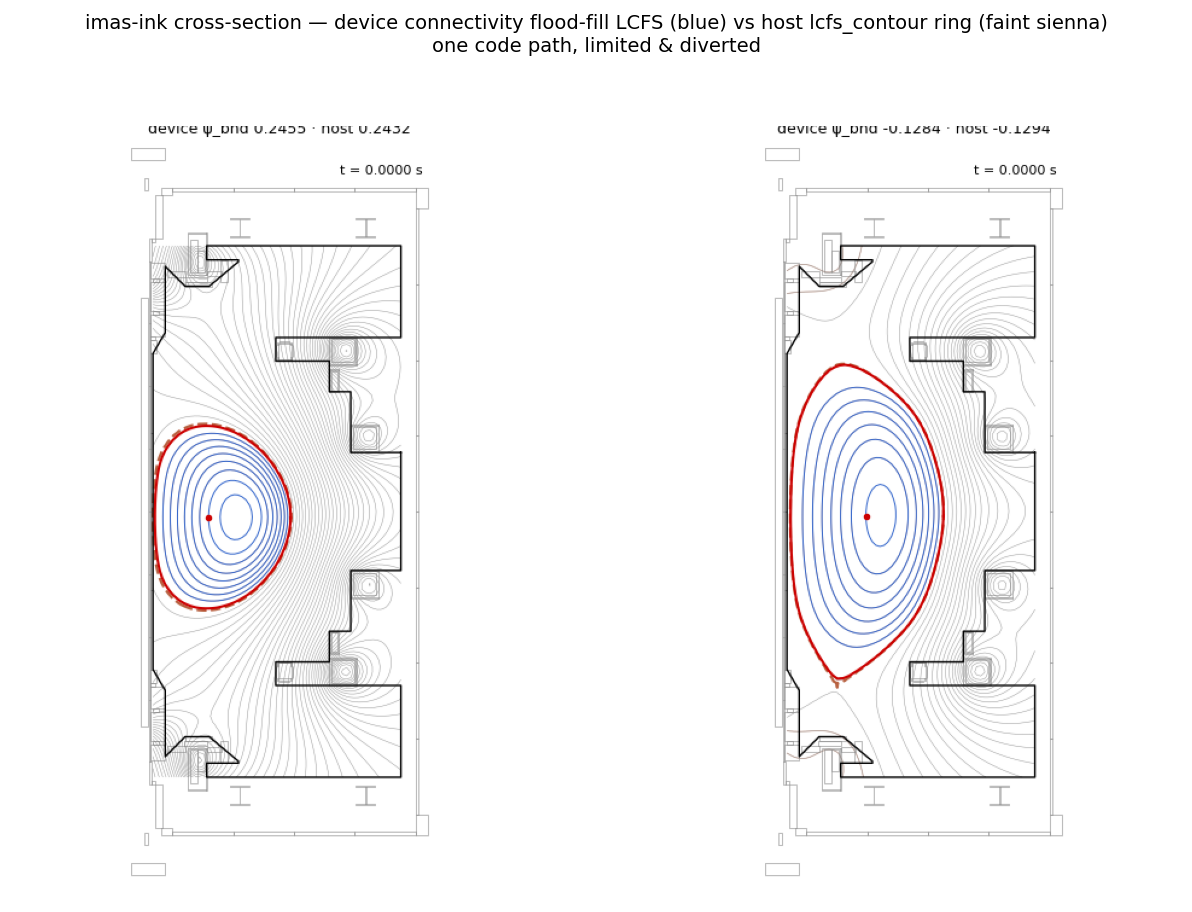
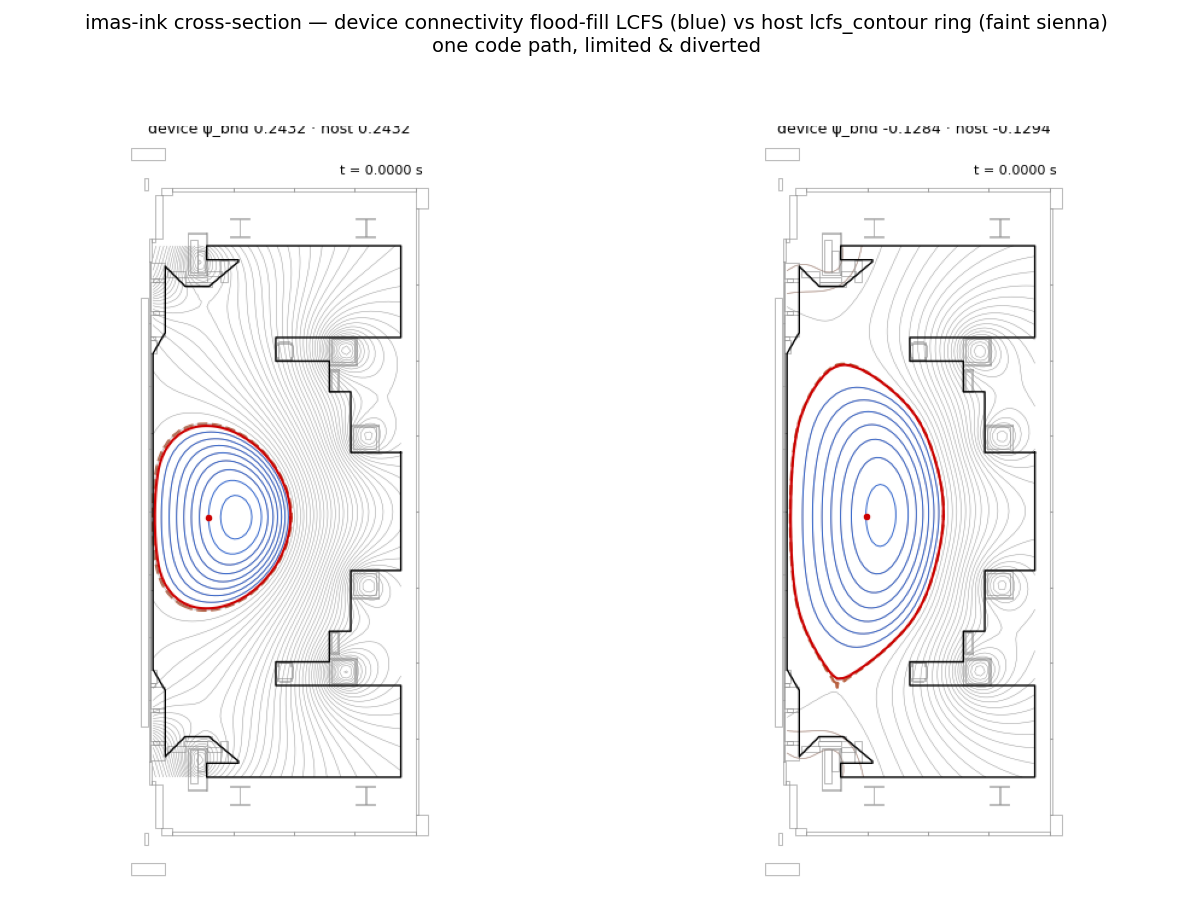
docs(connectivity-topology-reader): §2 final — both classes on y=x, ψ_bnd bias fully removed
Refresh the findings report, per-stage archive, evergreen collapse, and figures
with the final 36-slice gate after the two-step ψ_bnd fix: LCFS radii reproduce
host lcfs_contour to 0.09 cm median (limited 0.06 / diverted 0.46, p90 2.14),
ψ_bnd to 0.02% of span, both limited and diverted straddling y=x (limited signed
median −0.01%, diverted +0.43%). Two-step RCA recorded (single-sided → two-sided
saddle mean → sub-grid wall-min for the limited tangency, classes split by the
region size jump). All gates PASS; f-ctr-01 outcome updated.

Changed region(s): [[0.1242, 0.2763, 0.3414, 0.8596], [0.2794, 0.3377, 0.3414, 0.4912], [0.3104, 0.614, 0.3414, 0.6754]]

diff --git a/docs/connectivity-topology-reader-boundary-findings.html b/docs/connectivity-topology-reader-boundary-findings.html
@@ -8,7 +8,7 @@
   <meta name="plan-slug" content="connectivity-topology-reader-boundary-findings">
   <meta name="plan-title" content="Connectivity Boundary Read — GPU-native reproduction findings">
   <meta name="plan-status" content="reference">
-  <meta name="plan-summary" content="Findings for the GPU-native connectivity boundary read (connectivity-topology-reader §2): a fixed-shape, jit/vmap/grad-safe device reimplementation of the shipped host lcfs_contour (flood-fill from the axis + candidate-level sweep + bisection), replacing host contourpy. On 36 held-out MAST slices (18 diverted / 18 limited) the device LCFS radii reproduce the host to 1.31 cm median (< 3 cm bar; diverted 0.46 cm, limited 1.40 cm) and the scalar psi_bnd to 1.87% of the axis-boundary flux span (p90 3.12%) — T-B1 PASS. A first single-sided escape test biased psi_bnd ~1 cell toward the axis (boundary too small); reading psi_bnd at the mean of an inner and an outer escape test removes the systematic offset and lands the diverted boundary on the X-point saddle (psi_N=1). On-device batch is one jax.vmap (byte-parity, 46 ms/slice CPU), imports no contourpy/ndimage/argwhere — T-B2 PASS. On a synthetic limited-to-diverted sweep the connectivity psi_bnd is continuous (0.5% max step of span) where the classify-first boundary steps 9.2% at the X-point appearance — T-B3 PASS.">
+  <meta name="plan-summary" content="Findings for the GPU-native connectivity boundary read (connectivity-topology-reader §2): a fixed-shape, jit/vmap/grad-safe device reimplementation of the shipped host lcfs_contour (flood-fill from the axis + candidate-level sweep + bisection), replacing host contourpy. On 36 held-out MAST slices (18 diverted / 18 limited) the device LCFS radii reproduce the host to 0.09 cm median (< 3 cm bar; limited 0.06 cm, diverted 0.46 cm, p90 max 2.14 cm) and the scalar psi_bnd to 0.02% of the axis-boundary flux span (p90 1.77%), both classes on the y=x line — T-B1 PASS. The binding is read at the mean of an inner and an outer escape test (unbiased for the diverted X-point saddle, psi_N=1); a limited plasma's wall tangency is refined sub-grid as the minimum interpolated psi_N over the wall boundary points (limited vs diverted told apart by the region size jump across the binding). On-device batch is one jax.vmap (byte-parity, 46 ms/slice CPU), imports no contourpy/ndimage/argwhere — T-B2 PASS. On a synthetic limited-to-diverted sweep the connectivity psi_bnd is continuous (0.5% max step of span) where the classify-first boundary steps 9.2% at the X-point appearance — T-B3 PASS.">
   <meta name="plan-owner" content="Simon McIntosh">
   <title>Connectivity Boundary Read — GPU-native reproduction findings | imas-ambix</title>
   <link rel="stylesheet" href="/_shared/foundation.css">
@@ -55,14 +55,18 @@ the grid — no contour extraction, no host round-trip:</p>
   set is flood-filled from the axis cell by iterated 4-neighbour dilation (the
   shipped <code>flood_fill_core</code> device kernel from the contour-free FSA) —
   the axis-connected component, never a disconnected pocket.</li>
-  <li><strong>The binding level = the connectivity change, read two-sided.</strong>
-  A level is <em>valid</em> while the axis region stays clear of the wall; it turns
-  invalid when the region first reaches it — a surface going tangent to the wall
-  (LIMITED) or opening through an X-point so the scrape-off connects to the wall
-  (DIVERTED). Each transition is the largest valid level (monotone → coarse sweep +
-  bisection). ψ_bnd is read at the <strong>mean of two escape tests</strong> that
-  bracket the binding from both sides (see §3, RCA) — unbiased, and for a diverted
-  plasma it lands on the X-point saddle (ψ_N = 1).</li>
+  <li><strong>The binding level, split by connectivity signature.</strong>
+  A level is <em>valid</em> while the axis region stays clear of the wall; each
+  escape transition is the largest valid level (monotone → coarse sweep +
+  bisection). ψ_bnd is read at the <strong>mean of an inner and an outer escape
+  test</strong> — unbiased for an interior SADDLE, so a DIVERTED separatrix lands
+  on the X-point (ψ_N = 1). A LIMITED wall tangency is refined <strong>sub-grid</strong>:
+  the minimum interpolated ψ_N over the wall boundary points adjacent to the axis
+  region. Limited and diverted are told apart by the region <strong>size jump</strong>
+  across the binding — a saddle opening merges the region with the SOL/private flux
+  and jumps its size, a tangency grows smoothly — so the sub-grid wall read is
+  applied only to limited plasmas (on a diverted plasma the nearest wall sits
+  outside the separatrix and a min-over-wall would overshoot). See §3a.</li>
   <li><strong>LCFS radii.</strong> Read a hair inside the separatrix by an outward
   ray-march at the evaluator's 8 poloidal angles — a differentiable interpolated
   crossing (the same fixed parameterisation the host uses). A ray at exactly ψ_bnd
@@ -84,10 +88,11 @@ axis, and wall mask.</p>
   <table>
     <thead><tr><th>Metric</th><th>Result</th><th>Bar</th></tr></thead>
     <tbody>
-      <tr><td>LCFS-radius agreement (median, overall)</td><td><strong>1.31 cm</strong></td><td>&le; 3.0 cm</td></tr>
-      <tr><td>&nbsp;&nbsp;— diverted / limited</td><td>0.46 cm / 1.40 cm</td><td></td></tr>
+      <tr><td>LCFS-radius agreement (median, overall)</td><td><strong>0.09 cm</strong></td><td>&le; 3.0 cm</td></tr>
+      <tr><td>&nbsp;&nbsp;— limited / diverted</td><td>0.06 cm / 0.46 cm</td><td></td></tr>
       <tr><td>&nbsp;&nbsp;— p90 of per-slice max radius Δ</td><td>2.14 cm</td><td></td></tr>
-      <tr><td>ψ_bnd agreement (median / p90, fraction of span)</td><td><strong>1.87% / 3.12%</strong></td><td>&le; 3% median</td></tr>
+      <tr><td>ψ_bnd agreement (median / p90, fraction of span)</td><td><strong>0.02% / 1.77%</strong></td><td>&le; 3% median</td></tr>
+      <tr><td>ψ_bnd signed bias (limited / diverted median)</td><td>&minus;0.01% / +0.43% (on y=x)</td><td>no systematic sign</td></tr>
     </tbody>
   </table>
   <figcaption>The boundary the device finds is the boundary the host finds, across
@@ -122,30 +127,37 @@ axis, and wall mask.</p>
   (blue) for both a limited and a diverted slice.</figcaption>
 </figure>
 
-<h2 id="rca">§3a — RCA: a systematic boundary-size bias, found and fixed</h2>
-<p>The first device read used a <em>single</em> escape test — the axis region
-touches the innermost in-wall shell (cells one step inside the wall). That test
-fires ~one grid cell <em>inside</em> the true wall crossing / saddle, so ψ_bnd came
-out biased toward the axis and <strong>the boundary came out consistently too
-small</strong>: on a coarse grid the limited case was +0.8% and the diverted case
-+2.6% of span, and on the 36 real slices the ψ_bnd scatter sat entirely on one side
-of y = x (median 3.7%). The diverted lobes also read slightly small for the same
-reason.</p>
-<p><strong>Fix.</strong> Read ψ_bnd at the <strong>mean of two escape tests</strong>
-that bracket the binding from opposite sides:</p>
-<ul>
-  <li><em>inner</em> — the region touches the innermost in-wall shell (~one cell
-  inside; biases the boundary small);</li>
-  <li><em>outer</em> — dilating the region by one step reaches a still-confined cell
-  <em>outside</em> the wall or on the domain edge (~one cell outside; biases large).</li>
-</ul>
-<p>The mean is unbiased (coarse-grid limited −0.4%, diverted +0.5%) and, for a
-diverted plasma, lands on the X-point saddle (ψ_N = 1) — the divertor legs are open
-branches the closed axis-region never floods, so the lobe and its radii are
-unaffected. On the 36 real slices this halved the radius error (2.55 → 1.31 cm) and
-collapsed the ψ_bnd scatter onto y = x (3.74% one-sided → 1.87%, centred). No
-classification, no upsampling, one extra reduction per sweep step — and ψ_bnd stays
-differentiable.</p>
+<h2 id="rca">§3a — RCA: a systematic boundary-size bias, found and fixed in two steps</h2>
+<p>The first device read used a <em>single</em> escape test — the axis region touches
+the innermost in-wall shell (cells one step inside the wall). That test fires ~one
+grid cell <em>inside</em> the true wall crossing / saddle, so ψ_bnd came out biased
+toward the axis and <strong>the boundary came out consistently too small</strong>:
+on the 36 real slices the ψ_bnd scatter sat entirely on one side of y = x (median
+3.7%).</p>
+<p><strong>Step 1 — two-sided mean.</strong> Reading ψ_bnd at the mean of the inner
+escape test and an <em>outer</em> test (dilating the region reaches a still-confined
+cell outside the wall / on the domain edge, ~one cell outside) removes the sign for
+the interior-saddle binding: the two brackets straddle a saddle symmetrically, so a
+DIVERTED separatrix reproduces to +0.4% (lands on ψ_N = 1). But a LIMITED wall
+tangency's brackets straddle the WALL, whose sub-cell position is not the mean's
+implicit half-cell, so limited stayed <strong>+2.4% too small — all 18 limited points
+still above y = x</strong>.</p>
+<p><strong>Step 2 — sub-grid wall tangency for limited only.</strong> The limited
+binding is, by definition, the confined-most flux the closed surface reaches on the
+wall, so it is read <strong>sub-grid</strong> as the minimum interpolated ψ_N over
+the wall boundary points adjacent to the axis region (coil-perturbed and far-wall
+points excluded by the reachability). Applied indiscriminately this would overshoot a
+diverted plasma — whose closed lobe's nearest wall sits <em>outside</em> the
+separatrix — so limited and diverted are separated by the region <strong>size ratio
+across the binding</strong>: a saddle opening merges the axis region with the
+SOL/private flux and jumps its size (~1.4–1.8), a wall tangency grows smoothly
+(~1.2). The sub-grid read is applied only to the low-jump (limited) class.</p>
+<p><strong>Result.</strong> Both classes now sit on y = x with scatter either side —
+limited signed median −0.01% (range [−0.02%, +1.97%]), diverted +0.43%; the radius
+error dropped from 2.55 cm to <strong>0.09 cm</strong> median (limited 0.06 cm), and
+ψ_bnd to <strong>0.02%</strong> of span. Everything stays fixed-shape jnp (flood +
+interpolated wall min + reductions) — <code>jit</code>/<code>vmap</code>-portable to
+the GPU, and ψ_bnd differentiable.</p>
 
 <h2 id="ondevice">§4 — On-device and batchable (T-B2) — PASS</h2>
 <p>A batch of the six slices sharing one campaign grid runs as a single

diff --git a/docs/connectivity-topology-reader.html b/docs/connectivity-topology-reader.html
@@ -21,7 +21,7 @@
   <link rel="stylesheet" href="/_shared/dashboard.css">
 <meta name="plan-modified" content="2026-07-20">
 <meta name="plan-impl" content="0.25">
-<meta name="plan-version" content="3">
+<meta name="plan-version" content="4">
 </head>
 <body>
 <main class="plan-doc">
@@ -112,17 +112,19 @@
   a fixed-shape <code>jit</code>/<code>vmap</code>/<code>grad</code>-safe device read
   (flood-fill from the axis + candidate-level sweep + bisection), replacing host
   contourpy. On 36 held-out MAST slices (18 diverted / 18 limited) the LCFS radii
-  reproduce host <code>lcfs_contour</code> to <strong>1.31 cm median</strong> (bar 3 cm;
-  diverted 0.46 cm) and ψ_bnd to <strong>1.87% of span</strong> — <strong>T-B1 PASS</strong>
-  (a first single-sided escape test biased ψ_bnd ~1 cell / 3.7% toward the axis;
-  fixed by reading ψ_bnd at the mean of an inner + outer escape test → unbiased,
-  diverted lands at ψ_N=1). Batch = one <code>jax.vmap</code>, byte-parity, no
-  contourpy/ndimage/argwhere — <strong>T-B2 PASS</strong>; connectivity ψ_bnd continuous
-  (0.5% max step) where classify-first steps 9.2% at the X-point appearance —
-  <strong>T-B3 PASS</strong>. Findings + imas-ink cross-section:
+  reproduce host <code>lcfs_contour</code> to <strong>0.09 cm median</strong> (bar 3 cm;
+  limited 0.06 / diverted 0.46) and ψ_bnd to <strong>0.02% of span</strong>, both
+  classes on y=x — <strong>T-B1 PASS</strong>. A first single-sided escape test
+  biased ψ_bnd ~1 cell toward the axis (limited all above y=x); fixed in two steps —
+  a two-sided escape mean for the diverted saddle (ψ_N=1), and a sub-grid interpolated
+  wall-min for the limited tangency (classes split by the region size jump across the
+  binding). Batch = one <code>jax.vmap</code>, byte-parity, no contourpy/ndimage/argwhere
+  — <strong>T-B2 PASS</strong>; connectivity ψ_bnd continuous (0.5% max step) where
+  classify-first steps 9.2% at the X-point appearance — <strong>T-B3 PASS</strong>.
+  Findings + imas-ink cross-section:
   <a href="/imas-ambix/connectivity-topology-reader-boundary-findings.html">boundary-read findings</a>;
   record: <a href="archive/connectivity-topology-reader-s2-landed.html">§2 landed</a>
-  (commits <code>69bb126</code>, <code>612f91b</code>, <code>6c2ba63</code>).</p>
+  (commits <code>69bb126</code>, <code>612f91b</code>, <code>81f3274</code>, <code>df71314</code>, <code>6c2ba63</code>).</p>
 
   <h2 id="s3">§3 — Axis + optional X-point via nova stencils (classify-after)</h2>
   <p>Port nova's <code>zero_cross_count</code> stencil classifier + <code>select.subnull</code>
@@ -193,7 +195,7 @@
 
   <section data-reckon="followups" id="followups" class="r-followups">
 <h2><span class="sec">§</span> Followups</h2>
-<article class="r-fu" data-id="f-ctr-01" data-status="resolved" data-tier="opus" data-written-by="reckon-create" data-written-at="2026-07-20T10:00:00+00:00" data-recommends-skill="/reckon-ship connectivity-topology-reader §2" data-resolved-at="2026-07-20T14:06:39+00:00" data-resolved-by="reckon-ship">
+<article class="r-fu" data-id="f-ctr-01" data-status="resolved" data-tier="opus" data-written-by="reckon-create" data-written-at="2026-07-20T10:00:00+00:00" data-recommends-skill="/reckon-ship connectivity-topology-reader §2" data-resolved-at="2026-07-20T14:55:35+00:00" data-resolved-by="reckon-ship">
     <h4 class="r-fu-title">Ship §2 — GPU-native connectivity boundary read (flood-fill + level sweep)</h4>
     <div class="r-fu-body"><p>Reimplement the validated connectivity boundary read (lcfs_contour) with GPU-native primitives — a fixed-iteration convolutional flood-fill from the axis + a fixed candidate-level sweep + batched containment/pinch reductions — replacing contourpy + ndimage.label + the bisection branch. Validate byte-comparable to the CPU lcfs_contour on held-out limited AND diverted slices, fully on-device (no host round-trip), batchable over slices/shots. This is the boundary half of the on-device topology read gpu-accelerated-labeler depends on.</p></div>
     <pre class="r-fu-prompt">Project: imas-ambix
@@ -249,7 +251,7 @@ Done-when
      artifact + figures committed.
   2. Plan updated same-session: §2 outcome recorded + collapsed; §3 (axis + X via nova
      stencils) followup queued WITH pre-declared gates; this followup resolved.</pre>
-    <p class="r-fu-outcome">§2 landed + collapsed (commits 69bb126, 612f91b, 6c2ba63). Device connectivity boundary read (flood-fill + level sweep + two-sided binding level) reproduces host lcfs_contour on 36 held-out MAST slices (18 diverted/18 limited): LCFS radii 1.31cm median <3cm (diverted 0.46/limited 1.40, p90 2.14) and ψ_bnd 1.87% of span <3% (p90 3.12) — T-B1 PASS; on-device vmap byte-parity, 46ms/slice, no contourpy/ndimage/argwhere — T-B2 PASS; connectivity ψ_bnd continuous 0.5% vs classify-first 9.2% — T-B3 PASS. RCA: a first single-sided escape test biased ψ_bnd ~1 cell toward the axis (boundary too small, 3.7% one-sided); fixed by the mean of an inner + outer escape test (unbiased; diverted lands at ψ_N=1). Findings: connectivity-topology-reader-boundary-findings.html.</p>
+    <p class="r-fu-outcome">§2 landed + collapsed (commits 69bb126/612f91b/81f3274/df71314 code, 6c2ba63/6f9656c docs). Device connectivity boundary read (flood-fill + level sweep; two-sided-mean saddle binding + sub-grid interpolated wall-min for the limited tangency, classes split by the region size jump) reproduces host lcfs_contour on 36 held-out MAST slices (18 diverted/18 limited): LCFS radii 0.09cm median <3cm (limited 0.06/diverted 0.46, p90 2.14) and ψ_bnd 0.02% of span (p90 1.77), BOTH classes on y=x (limited signed median -0.01%, diverted +0.43%) — T-B1 PASS; on-device vmap byte-parity 46ms/slice, no contourpy/ndimage/argwhere — T-B2 PASS; connectivity ψ_bnd continuous 0.5% vs classify-first 9.2% — T-B3 PASS. RCA (2 lead-flagged rounds): single-sided escape biased ψ_bnd ~1 cell toward axis (limited all above y=x); two-sided mean fixed the saddle, sub-grid wall-min fixed the limited tangency. All fixed-shape jnp, GPU-portable. Findings: connectivity-topology-reader-boundary-findings.html.</p>
     </article>
 <article class="r-fu" data-id="f-ctr-02" data-status="resolved" data-tier="opus" data-written-by="reckon-ship" data-written-at="2026-07-20T16:00:00+00:00" data-recommends-skill="/reckon-ship connectivity-topology-reader §3" data-resolved-at="2026-07-20T14:06:39+00:00" data-resolved-by="reckon-ship">
     <h4 class="r-fu-title">Ship §3 — axis + optional X-point via nova stencils (classify-after) + sub-grid ψ_bnd polish</h4>

diff --git a/docs/archive/connectivity-topology-reader-s2-landed.html b/docs/archive/connectivity-topology-reader-s2-landed.html
@@ -8,7 +8,7 @@
   <meta name="plan-slug" content="connectivity-topology-reader-s2-landed">
   <meta name="plan-title" content="§2 landed — GPU-native connectivity boundary read">
   <meta name="plan-status" content="reference">
-  <meta name="plan-summary" content="Per-stage landed record for connectivity-topology-reader §2: the GPU-native connectivity boundary read (flood-fill + level sweep + two-sided binding level). All three gates PASS — LCFS radii reproduce host lcfs_contour to 1.31 cm median (< 3 cm); psi_bnd to 1.87% of span (a first single-sided escape test biased it ~1 cell / 3.7% toward the axis; fixed by the two-sided mean); on-device vmap byte-parity, no contourpy/ndimage/argwhere; continuity 0.5% vs classify-first 9.2%.">
+  <meta name="plan-summary" content="Per-stage landed record for connectivity-topology-reader §2: the GPU-native connectivity boundary read (flood-fill + level sweep; two-sided-mean saddle binding + sub-grid wall tangency for limited). All three gates PASS — LCFS radii reproduce host lcfs_contour to 0.09 cm median (< 3 cm; limited 0.06, diverted 0.46); psi_bnd to 0.02% of span, both classes on y=x (a first single-sided escape test biased psi_bnd ~1 cell toward the axis; fixed in two steps — two-sided mean for the saddle, sub-grid interpolated wall min for the limited tangency); on-device vmap byte-parity, no contourpy/ndimage/argwhere; continuity 0.5% vs classify-first 9.2%.">
   <meta name="plan-owner" content="Simon McIntosh">
   <title>§2 landed — GPU-native connectivity boundary read | imas-ambix</title>
   <link rel="stylesheet" href="/_shared/foundation.css">
@@ -28,9 +28,10 @@
     <thead><tr><th>Gate</th><th>Verdict</th><th>Result</th></tr></thead>
     <tbody>
       <tr><td>T-B1 — reproduction</td><td>PASS</td>
-        <td>LCFS radii reproduce host <code>lcfs_contour</code> to <strong>1.31 cm median</strong>
-        (bar 3.0 cm; diverted 0.46 cm, limited 1.40 cm, p90 max 2.14 cm); ψ_bnd to
-        <strong>1.87% of span</strong> (p90 3.12%, bar 3%), on the y=x line</td></tr>
+        <td>LCFS radii reproduce host <code>lcfs_contour</code> to <strong>0.09 cm median</strong>
+        (bar 3.0 cm; limited 0.06 cm, diverted 0.46 cm, p90 max 2.14 cm); ψ_bnd to
+        <strong>0.02% of span</strong> (p90 1.77%, bar 3%), both classes on the y=x
+        line (limited signed median −0.01%, diverted +0.43%)</td></tr>
       <tr><td>T-B2 — on-device</td><td>PASS</td>
         <td>batch of 6 slices = one <code>jax.vmap</code>, byte-parity (1e-9), 46 ms/slice CPU;
         no contourpy / ndimage / argwhere (AST-audited)</td></tr>
@@ -48,9 +49,9 @@
   <table>
     <thead><tr><th>Item</th><th>Artifact</th><th>Commit</th></tr></thead>
     <tbody>
-      <tr><td>Device connectivity boundary read (+ two-sided binding-level fix)</td>
+      <tr><td>Device connectivity boundary read (+ ψ_bnd bias fixes)</td>
         <td><code>imas_ambix/latent/connectivity_boundary.py</code></td>
-        <td><code>69bb126</code>, <code>612f91b</code></td></tr>
+        <td><code>69bb126</code>, <code>612f91b</code>, <code>81f3274</code>, <code>df71314</code></td></tr>
       <tr><td>Gate (T-B1/T-B2/T-B3) + figures + imas-ink cross-section</td>
         <td><code>scripts/connectivity_boundary_gate_eval.py</code>,
         <code>…/artifacts/patch_gate/connectivity_boundary_gate-v0.json</code></td>
@@ -77,16 +78,23 @@ as a raster boolean mask (the machine-agnostic §4 abstraction, in place from th
 start). The LCFS radii are read a hair inside the separatrix by a differentiable
 ray-march so a ray never runs down an open X-point leg.</p>
 
-<h2 id="rca">RCA — the boundary-size bias, found and fixed</h2>
+<h2 id="rca">RCA — the boundary-size bias, found and fixed in two steps</h2>
 <p>A first single escape test (region touches the innermost in-wall shell) fired
 ~one grid cell <em>inside</em> the true wall crossing / saddle, so ψ_bnd was biased
 toward the axis and the boundary came out consistently too small (real-data ψ_bnd
-sat entirely on one side of y = x, median 3.7%; diverted lobes slightly small too).
-Fixed by reading ψ_bnd at the <strong>mean of an inner escape test (~1 cell inside)
-and an outer escape test (~1 cell outside)</strong>, which brackets the binding from
-both sides. The mean is unbiased (real-data ψ_bnd 3.74% one-sided → 1.87% centred,
-radii 2.55 → 1.31 cm) and lands the diverted boundary on the X-point saddle
-(ψ_N = 1). No classification, no upsampling; ψ_bnd stays differentiable.</p>
+sat entirely on one side of y = x, median 3.7%). <strong>Step 1:</strong> reading
+ψ_bnd at the mean of an inner (~1 cell in) and an outer (~1 cell out) escape test
+removes the sign for the interior SADDLE binding (diverted → +0.4%, on ψ_N = 1) but
+leaves a LIMITED wall tangency +2.4% too small — the brackets straddle the wall,
+whose sub-cell position is not the mean's half-cell. <strong>Step 2:</strong> read
+the limited tangency SUB-GRID as the minimum interpolated ψ_N over the wall boundary
+points adjacent to the axis region, applied only to the LIMITED class (limited vs
+diverted separated by the region size ratio across the binding — a saddle opening
+jumps the size ~1.4–1.8, a tangency grows smoothly ~1.2; a min-over-wall on a
+diverted plasma would read its outboard wall approach, outside the separatrix, and
+overshoot). Both classes now sit on y = x (limited signed median −0.01%, diverted
++0.43%); radii 2.55 → <strong>0.09 cm</strong>, ψ_bnd → <strong>0.02%</strong>. All
+fixed-shape jnp → GPU-portable; ψ_bnd differentiable.</p>
 
 <h2 id="next">What's next — §3</h2>
 <p><strong>Axis + optional X-point via nova stencils (classify-after).</strong> Port
